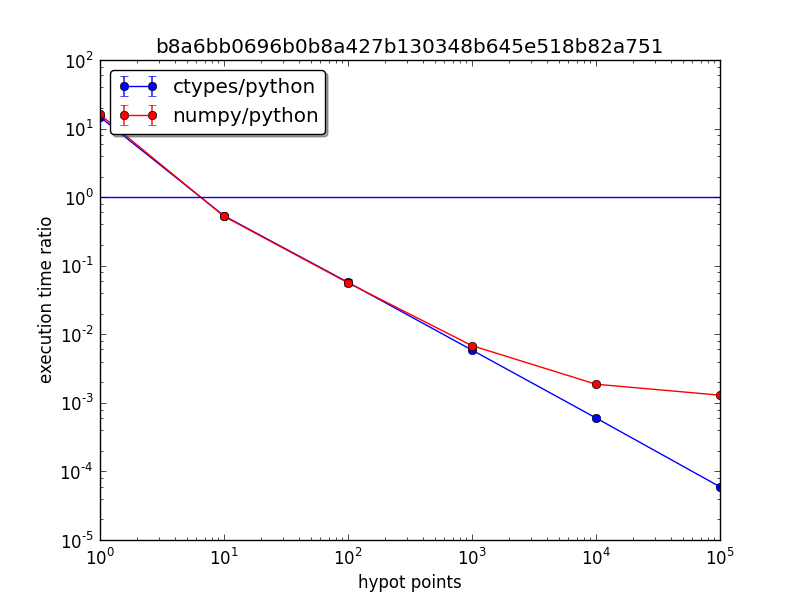
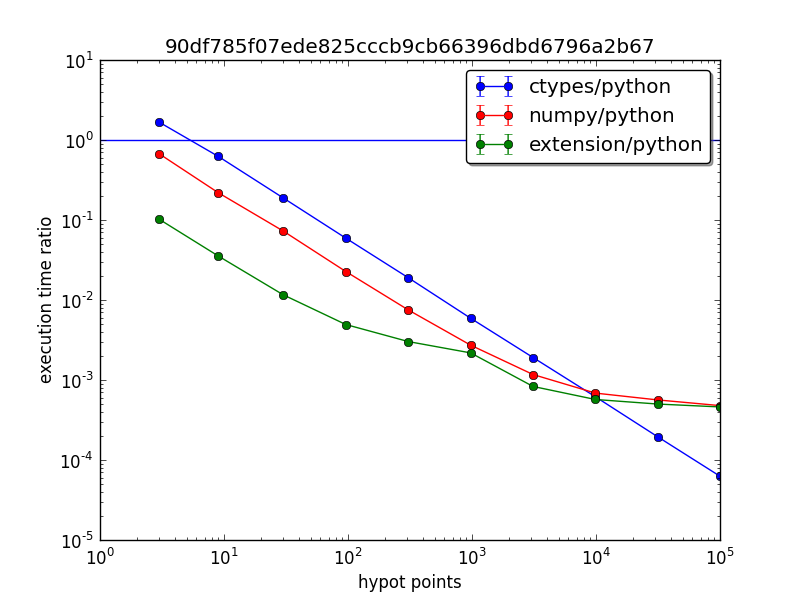
benchmark: adding the hypot plots

diff --git a/spacepy/toolbox/_toolboxmodule.c b/spacepy/toolbox/_toolboxmodule.c
@@ -173,8 +173,10 @@ static PyObject *hypot_tb(PyObject *self, PyObject *args)
                 temp_array = (PyArrayObject*)PyArray_FromArray((PyArrayObject*)temp_p, array_type, NPY_DEFAULT);
                 Py_DECREF(array_type);
                 temp_data = (double*)PyArray_DATA(temp_array);
+NPY_BEGIN_ALLOW_THREADS
                 for(j=0; j<arraySize; j++)
                     tot+=(temp_data[j] * temp_data[j]);
+NPY_END_ALLOW_THREADS
                 Py_DECREF(temp_array);
             }
             return PyFloat_FromDouble(sqrt(tot));

diff --git a/spacepy/sandbox/benchmark/hypot.py b/spacepy/sandbox/benchmark/hypot.py
@@ -49,7 +49,7 @@ plt.errorbar(x, y, yerr, color='b', fmt='o-', label='ctypes/python')
 
 ans = {}
 for ii, val in enumerate(tb.logspace(3, 1e5, 10)):
-    numpy_t = timeit.Timer("np.sqrt(np.sum(data*data))", 
+    numpy_t = timeit.Timer("np.sqrt(np.inner(data, data))", 
                            setup="import numpy as np; import ctypes;" + 
                            "data = np.arange(1, " + str(int(val)) + ", dtype=ctypes.c_double)")
     python_t = timeit.Timer("math.sqrt(sum([v**2 for v in data]))", 
